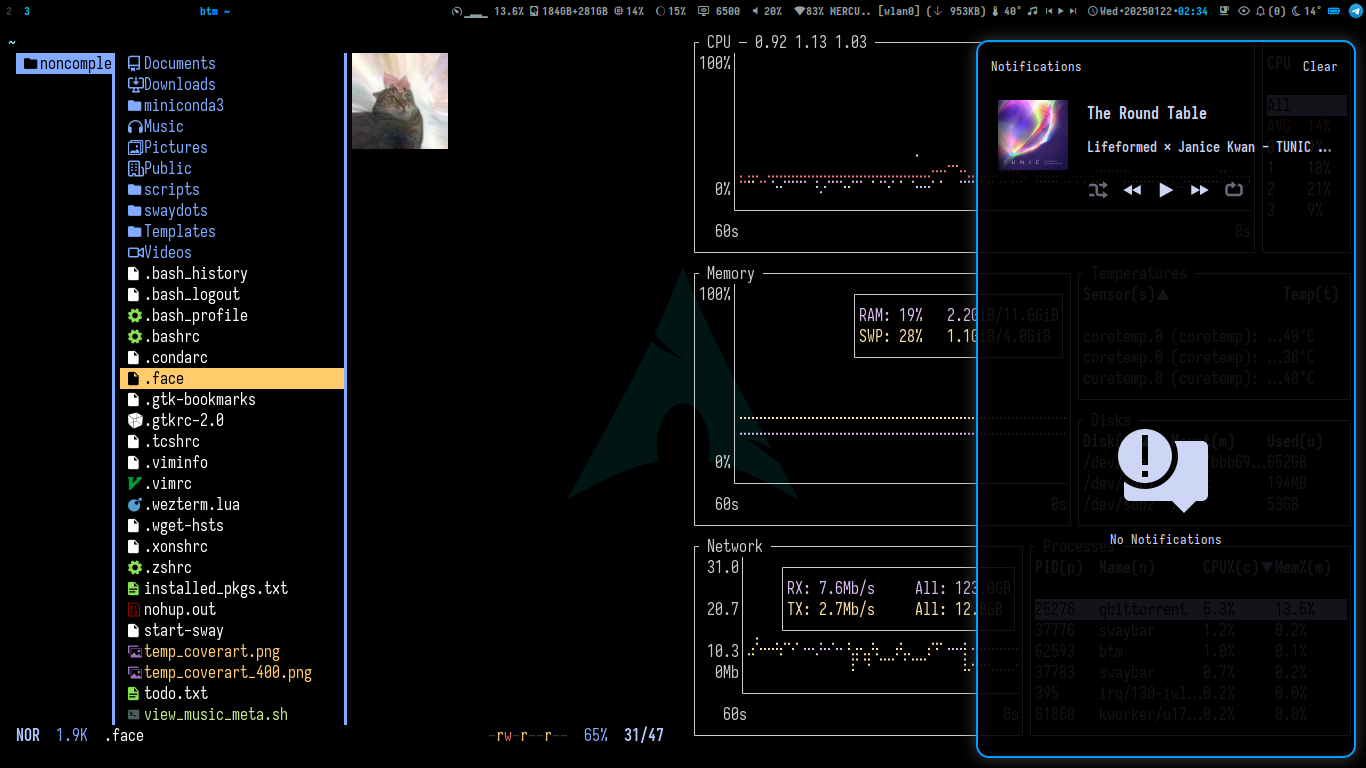
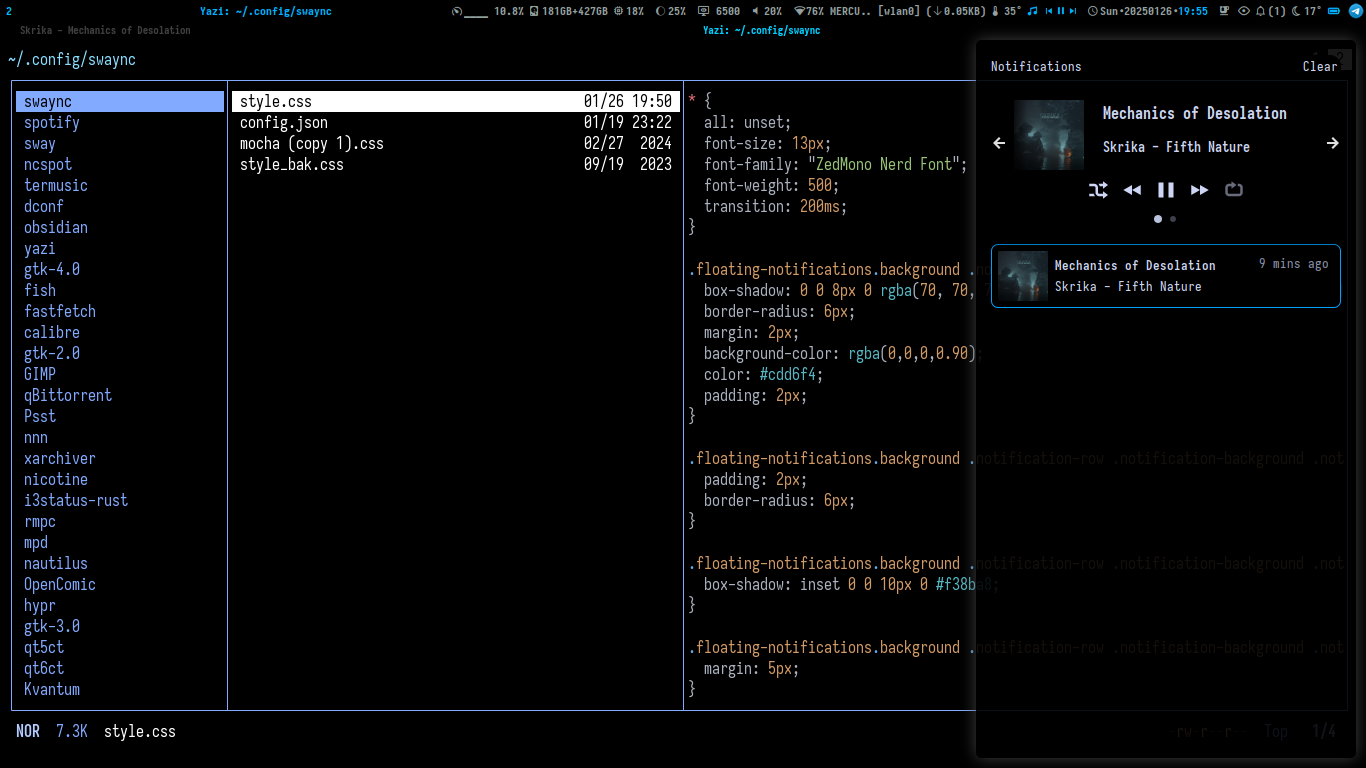
swaync_update

diff --git a/.config/swaync/style.css b/.config/swaync/style.css
@@ -7,8 +7,8 @@
 }
 
 .floating-notifications.background .notification-row .notification-background {
-  box-shadow: 0 0 8px 0 rgba(70, 70, 70, 0.8), inset 0 0 0 2px #00a0ff;
-  border-radius: 12.6px;
+  box-shadow: 0 0 8px 0 rgba(70, 70, 70, 0.8), inset 0 0 0 1px rgba(0, 0, 0, 0.90);
+  border-radius: 6px;
   margin: 2px;
   background-color: rgba(0,0,0,0.90);
   color: #cdd6f4;
@@ -17,7 +17,7 @@
 
 .floating-notifications.background .notification-row .notification-background .notification {
   padding: 2px;
-  border-radius: 12.6px;
+  border-radius: 6px;
 }
 
 .floating-notifications.background .notification-row .notification-background .notification.critical {
@@ -52,7 +52,7 @@
 }
 
 .floating-notifications.background .notification-row .notification-background .notification > *:last-child > * .notification-action {
-  border-radius: 7px;
+  border-radius: 6px;
   color: #cdd6f4;
   background-color: #000000;
   box-shadow: inset 0 0 0 1px #45475a;
@@ -90,8 +90,8 @@
 }
 
 .control-center {
-  box-shadow: 0 0 8px 0 rgba(80, 80, 80, 0.8), inset 0 0 0 2px #00a0ff;
-  border-radius: 12.6px;
+  box-shadow: 0 0 8px 0 rgba(80, 80, 80, 0.8), inset 0 0 0 1px rgba(0, 0, 0, 0.90);
+  border-radius: 6px;
   margin: 10px;
   background-color:rgba(0, 0, 0, 0.90);
   color: #cdd6f4;
@@ -114,8 +114,8 @@
 
 .control-center .widget-title button:hover {
   box-shadow: inset 0 0 0 2px #00a0ff;
-  background-color: #000000;
-  color: #0000ff;
+  background-color: #00a0ff;
+  color: #00a0ff;
 }
 
 .control-center .widget-title button:active {
